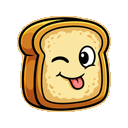
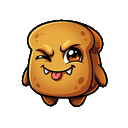
Fried Bread has a card, and he is furious
Or: "Fried Bread HAS a card! In the card booklet I sent you." He does — #42,
series המאכלים, 390/240, "חנק מורעל", on page 17 of
assets/reference/monster-cards-with-bleed.pdf. I said he had none, drew him
from a description, and got a friendly slice of toast twice; the real
character is a craggy crouton with fangs and clenched fists.

The artwork is cropped out of that page and he is now drawn from himself like
the other four. The brief says "cute" and "angry" in the same breath on
purpose: a sweetened-down bread with a smile is not the character — the joke
is that a slice of fried bread is this cross about something.

Worth knowing beyond these three images: that booklet holds 24 cards and only
two of them exist in the game (docs/DECK-SOURCE.md). Reaching into it for a
character is reaching into a deck the game does not have.

diff --git a/packages/art/src/emojiLooks.ts b/packages/art/src/emojiLooks.ts
@@ -41,9 +41,21 @@ export const EMOJI_REFS: Record<string, string> = {
   amanda: "assets/raw/brand/amanda_portrait.png",
   crumb: "apps/client/public/cards/crumb_demon.webp",
   dragon: "apps/client/public/cards/dragons_01_flame_dragon.webp",
-  // Fried Bread has no card: he is from the film, and Or named him alongside
-  // the others. Drawn from scratch, which is why there is no reference here.
-  bread: "",
+  /*
+   * Fried Bread DOES have a card.
+   *
+   * I said he did not, drew him from a description, and got a friendly slice
+   * of toast twice. Or: *"Fried Bread has a card! In the card booklet I sent
+   * you."* He does — #42, series המאכלים, in
+   * assets/reference/monster-cards-with-bleed.pdf, and he is not friendly at
+   * all: a furious craggy crouton with fangs and fists. The artwork is cropped
+   * out of that page so he is drawn from himself like the other four.
+   *
+   * Worth knowing beyond this file: that booklet has 24 cards and only two of
+   * them are in the game (docs/DECK-SOURCE.md). Reaching into it for a
+   * character is reaching into a deck the game does not have.
+   */
+  bread: "assets/reference/fried-bread-card.png",
 };
 
 /** Shared rules. Same family as the icons, so the game looks like one game. */
@@ -112,32 +124,24 @@ export const EMOJI_LOOK: Record<string, { from: string; doing: string }> = {
   },
   dragon_wink: { from: "dragon", doing: "giving a big confident wink with a toothy grin" },
 
-  // ── Fried Bread, from the film ──
-  bread_hi: {
-    from: "bread",
-    doing:
-      "a cute chibi slice of fried golden bread with a happy face and two tiny arms, waving hello",
-  },
   /*
-   * The bread has to look like BREAD. The first pass of these two came back
-   * as a plain round blob and a yellow circle with heart eyes — the "slice of
-   * fried bread" was lost somewhere between the description and the drawing,
-   * because nothing anchors this character (he has no card). Saying the shape
-   * three ways is the fix.
+   * ── Fried Bread (#42) ──
+   *
+   * The card is FURIOUS: fangs, scowl, clenched fists. These say "cute" and
+   * "angry" in the same breath on purpose, because a sweetened-down bread
+   * with a smile is not the character — the joke is that a slice of fried
+   * bread is this cross about something.
    */
+  bread_hi: { from: "bread", doing: "waving hello, grumpily, one fist still clenched" },
   bread_tongue: {
     from: "bread",
-    doing:
-      "a cute chibi character who IS A THICK RECTANGULAR SLICE OF FRIED BREAD — square-ish " +
-      "with rounded corners, a golden-brown toasted crust around a paler middle, visible " +
-      "crumb texture — with a cheeky face, tongue sticking out and one eye winking",
+    doing: "sticking its tongue out rudely between its fangs, one eye screwed up, cheeky",
   },
   bread_heart: {
     from: "bread",
     doing:
-      "a cute chibi character who IS A THICK RECTANGULAR SLICE OF FRIED BREAD — square-ish " +
-      "with rounded corners, a golden-brown toasted crust around a paler middle, visible " +
-      "crumb texture — with big heart-shaped eyes, hugging a tiny red heart",
+      "scowling furiously while holding one tiny red heart out in front of it, as though "
+      + "offering it under protest",
   },
 
   // ── Amanda herself ──
